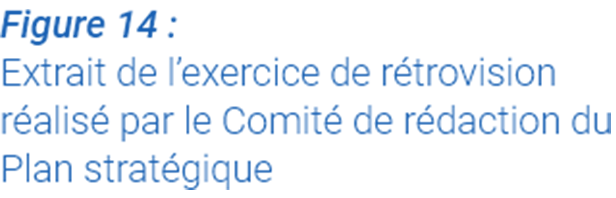
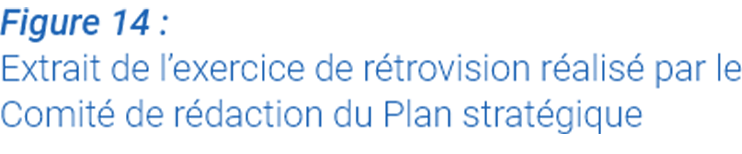
final

Changed region(s): [[0.0, 0.2857, 1.0, 0.961], [0.0, 0.026, 0.3084, 0.2857]]

diff --git a/chap5/css/chapter-5-backcasting-768-all-breakpoints.css b/chap5/css/chapter-5-backcasting-768-all-breakpoints.css
@@ -137,12 +137,12 @@
 
 .chapter-5-backcasting-1280 .grupo-188-1 {
   cursor: pointer;
-  height: 21px;
+  height: 24px;
   left: 1119px;
   object-fit: cover;
   position: absolute;
   top: 1123px;
-  width: 105px;
+  width: auto;
 }
 
 .chapter-5-backcasting-1280 .x16-1 {
@@ -747,10 +747,10 @@
 
 .chapter-5-backcasting-1920 .grupo-188 {
   cursor: pointer;
-  height: 21px;
+  height: 24px;
   left: 1119px;
   top: 1123px;
-  width: 105px;
+  width: auto;
 }
 
 .chapter-5-backcasting-1920 .x16 {
@@ -1483,12 +1483,12 @@
 
 .chapter-5-backcasting-375 .grupo-188-3 {
   cursor: pointer;
-  height: 21px;
+  height: 24px;
   left: 493px;
   object-fit: cover;
   position: absolute;
   top: 1815px;
-  width: 105px;
+  width: auto;
 }
 
 .chapter-5-backcasting-375 .x16-3 {
@@ -2113,12 +2113,12 @@
 
 .chapter-5-backcasting-768-all-breakpoints .grupo-188-2 {
   cursor: pointer;
-  height: 21px;
+  height: 24px;
   left: 1392px;
   object-fit: cover;
   position: absolute;
   top: 1462px;
-  width: 105px;
+  width: auto;
 }
 
 .chapter-5-backcasting-768-all-breakpoints .x16-2 {

diff --git a/annexes/css/globals.css b/annexes/css/globals.css
@@ -458,7 +458,7 @@
   letter-spacing: 0;
   line-height: 18px;
   position: absolute;
-  top: -21px;
+  top: -5px;
   white-space: nowrap;
 }
 
@@ -893,7 +893,7 @@
   letter-spacing: 0;
   line-height: 18px;
   position: absolute;
-  top: -21px;
+  top: -5px;
   white-space: nowrap;
 }
 
@@ -1239,7 +1239,7 @@
   letter-spacing: 0;
   line-height: 18px;
   position: absolute;
-  top: -21px;
+  top: -5px;
   white-space: nowrap;
 }
 

diff --git a/chap5/css/chapter-5-backcasting-case-study-15-375-all-breakpoints.css b/chap5/css/chapter-5-backcasting-case-study-15-375-all-breakpoints.css
@@ -509,7 +509,7 @@
 
 .chapter-5-backcasting-case-study-15-375-all-breakpoints .figure-14-extract-fr-2 {
   height: 60px;
-  left: 36px;
+  left: 32px;
   object-fit: cover;
   position: absolute;
   top: 1490px;
